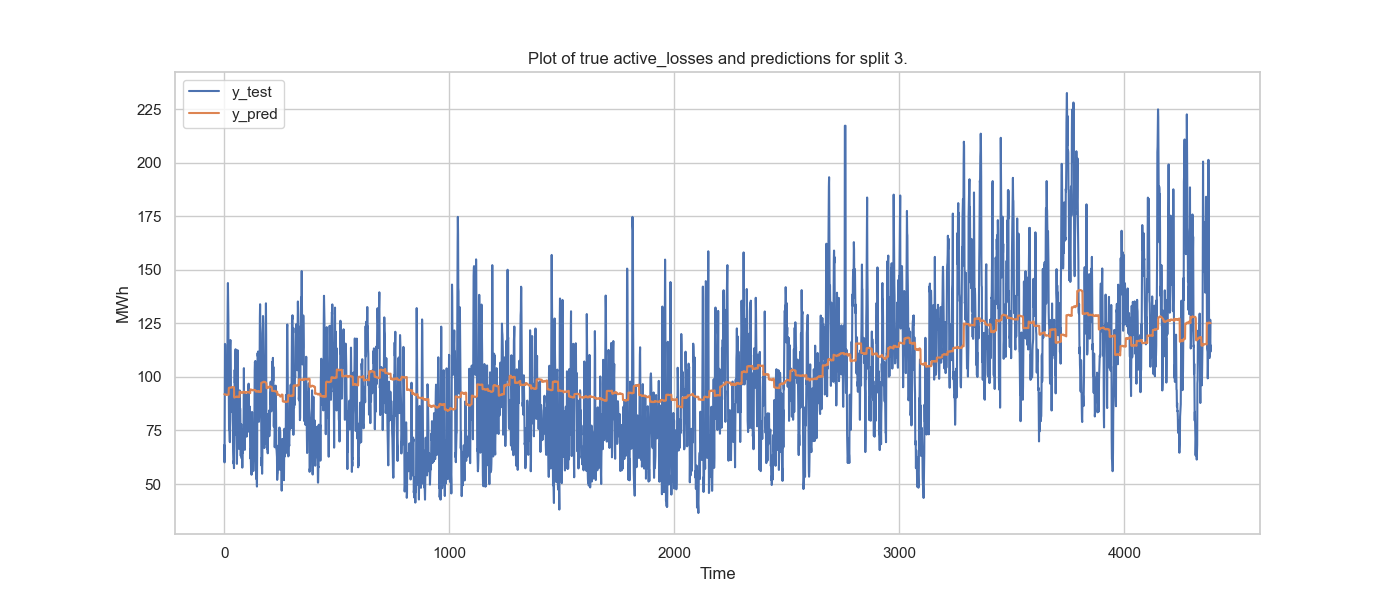
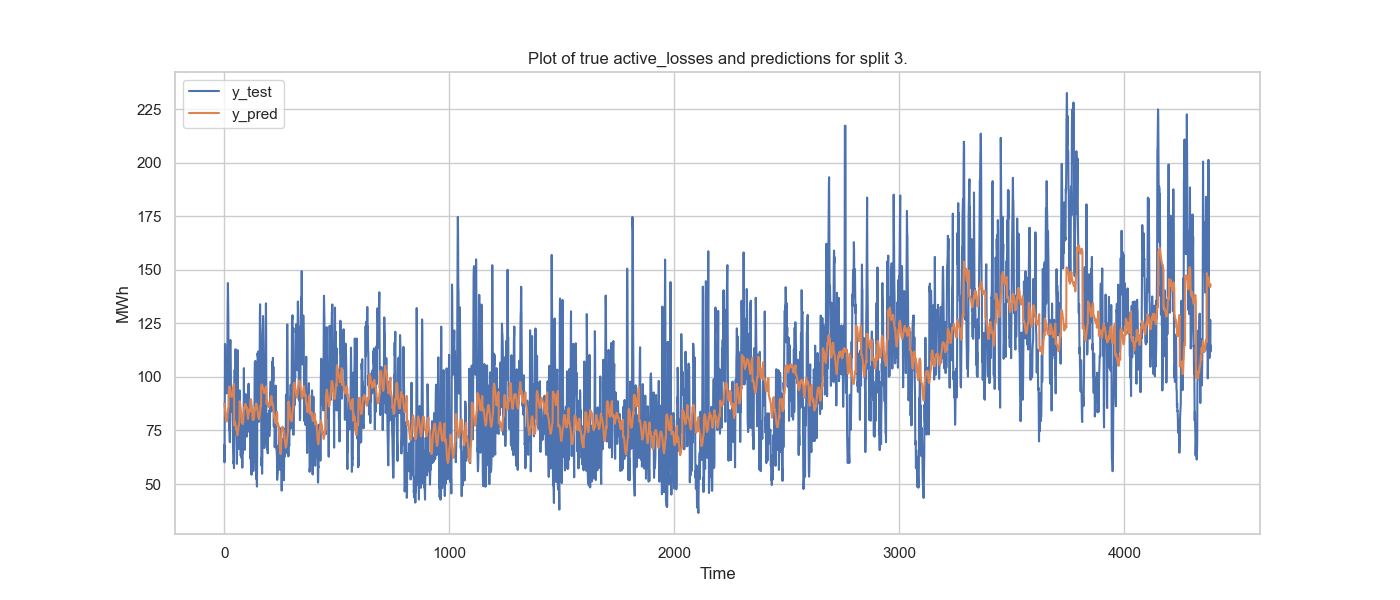
trained with n_trials = 50 for better predictions plots

Changed region(s): [[0.1536, 0.42, 0.8907, 0.78]]

diff --git a/main.py b/main.py
@@ -34,7 +34,7 @@ if __name__ == '__main__':
 
     # Hyperparameter tuning using Optuna
     study = optuna.create_study(direction='minimize')
-    study.optimize(lambda trial: objective(trial, X, y, preprocessor, splits), n_trials=2, timeout=3600*0.5)
+    study.optimize(lambda trial: objective(trial, X, y, preprocessor, splits), n_trials=50, timeout=3600*0.5)
 
     # Analyze Optuna study by outputing the numbeer of trials, the minimal MAE and the best hyperparameters
     analyze_optuna_study(study)
